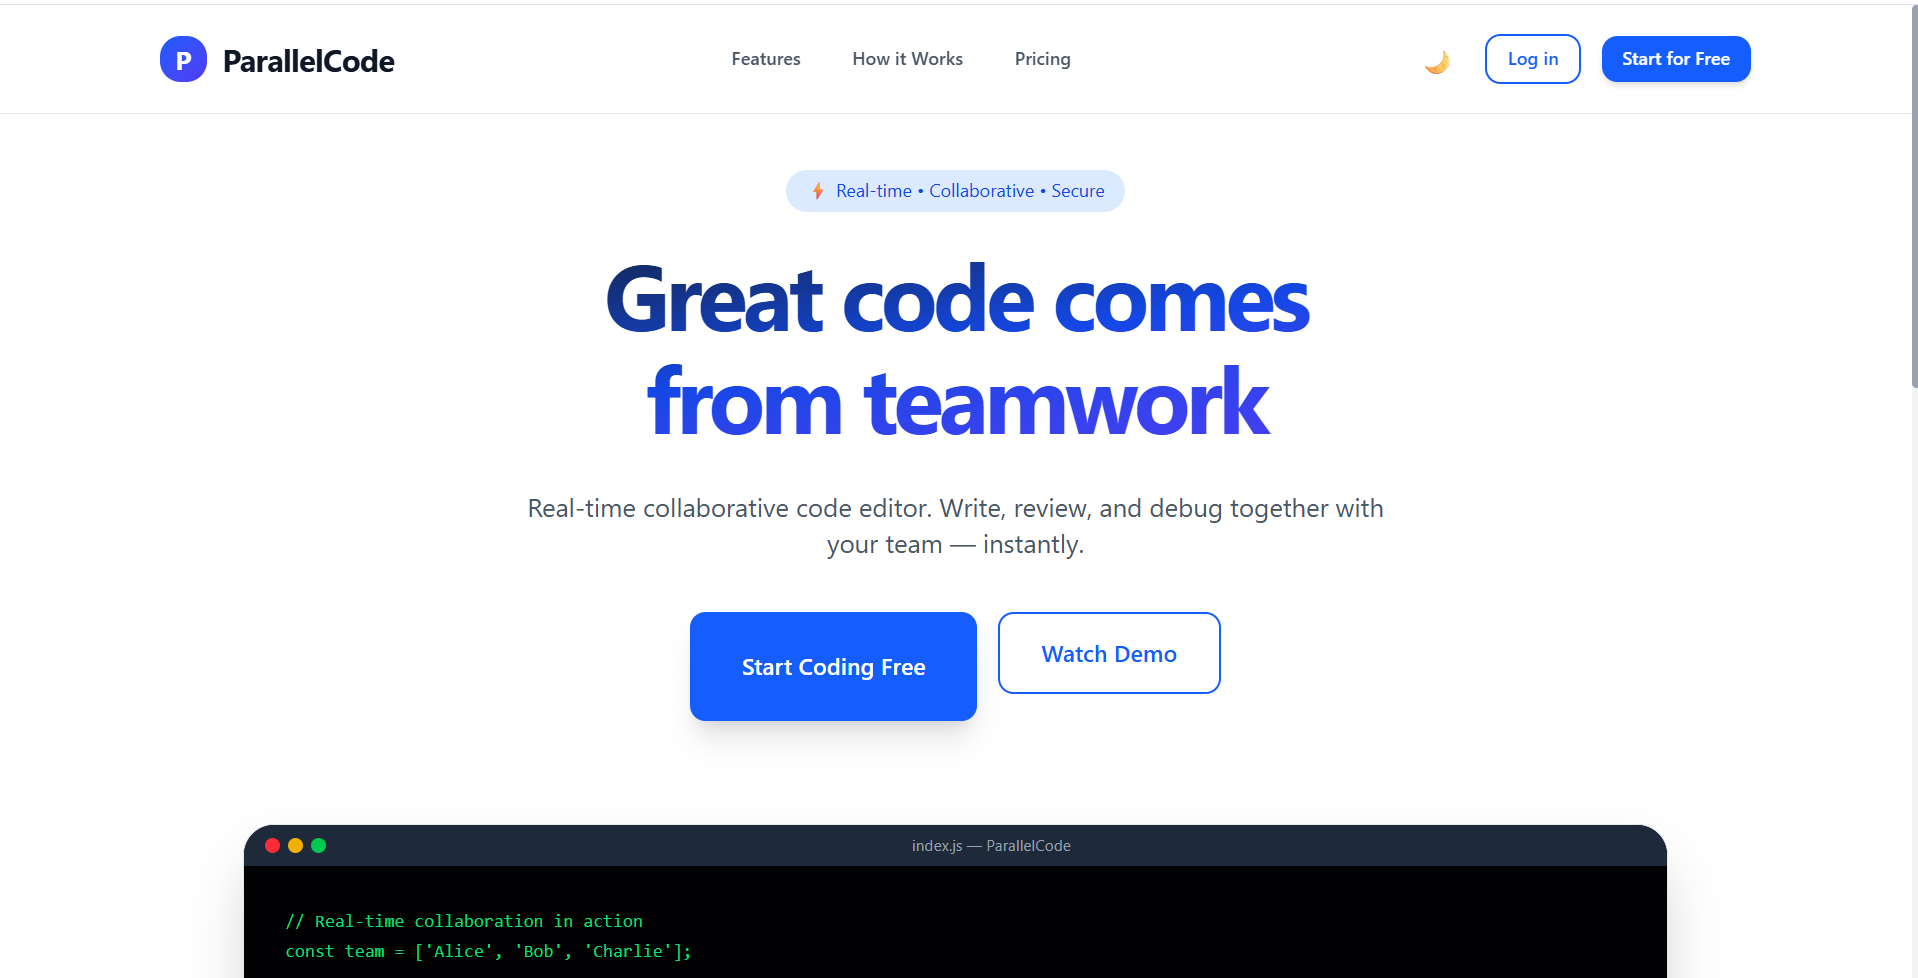
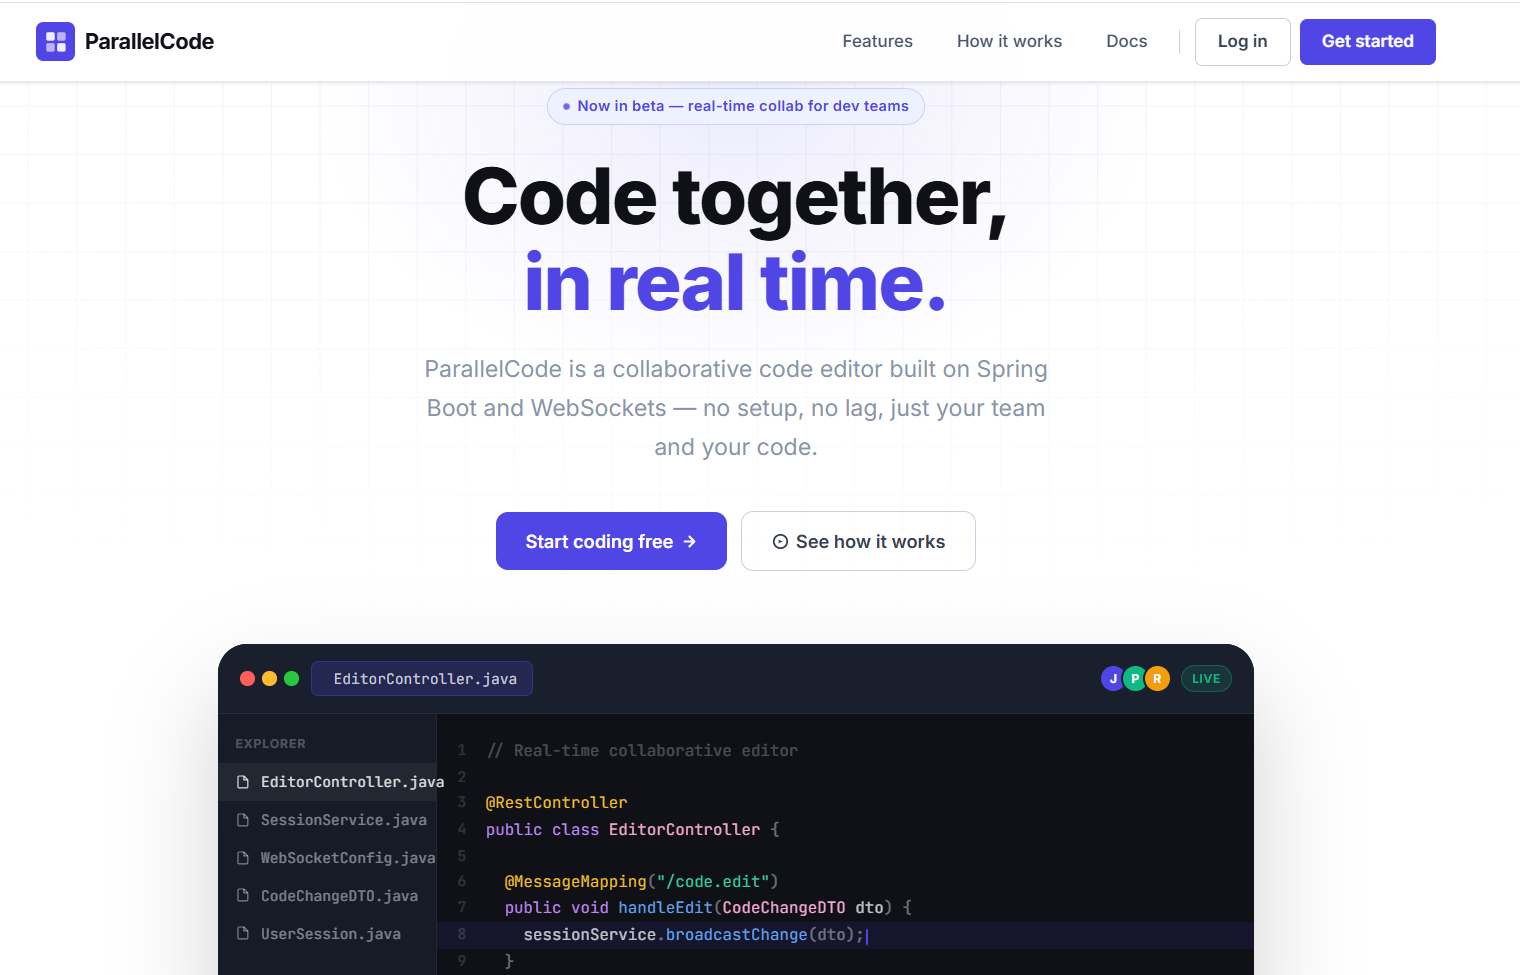
added youtube links

diff --git a/src/index.css b/src/index.css
@@ -526,6 +526,13 @@ html, body, #root {
         color: #334155;
     }
 
+    .project-buttons {
+        display: flex;
+        gap: 0.8rem;
+        flex-wrap: wrap;
+        margin-top: auto;
+    }
+
     .project-github-btn {
         display: inline-flex;
         align-items: center;
@@ -550,8 +557,32 @@ html, body, #root {
         transform: translateY(-2px);
     }
 
-    .github-icon {
+    .github-icon, .youtube-icon {
         font-size: 1.2rem;
+    }
+
+    .project-youtube-btn {
+        display: inline-flex;
+        align-items: center;
+        justify-content: center;
+        gap: 0.6rem;
+        padding: 0.6rem 1.4rem;
+        background: #dc143c;
+        color: #fff;
+        font-family: var(--font-montserrat);
+        font-size: 0.85rem;
+        font-weight: 600;
+        border: none;
+        border-radius: 6px;
+        cursor: pointer;
+        text-decoration: none;
+        transition: background 0.2s ease, transform 0.15s ease;
+        width: fit-content;
+    }
+
+    .project-youtube-btn:hover {
+        background: #cc0000;
+        transform: translateY(-2px);
     }
 
     /* ── Experience ── */

diff --git a/src/sections/Projects.jsx b/src/sections/Projects.jsx
@@ -1,5 +1,5 @@
 import {projects} from "../constants/index.js";
-import {FaGithub} from "react-icons/fa";
+import {FaGithub, FaYoutube} from "react-icons/fa";
 const ProjectCard = ({ project }) => {
     return (
         <div className="project-card">
@@ -20,15 +20,28 @@ const ProjectCard = ({ project }) => {
                         </span>
                     ))}
                 </div>
-                <a
-                    href={project.githubLink}
-                    target="_blank"
-                    rel="noopener noreferrer"
-                    className="project-github-btn"
-                >
-                    <FaGithub className="github-icon" />
-                    <span>View Code</span>
-                </a>
+                <div className="project-buttons">
+                    <a
+                        href={project.githubLink}
+                        target="_blank"
+                        rel="noopener noreferrer"
+                        className="project-github-btn"
+                    >
+                        <FaGithub className="github-icon" />
+                        <span>View Code</span>
+                    </a>
+                    {project.youtubeLink && (
+                        <a
+                            href={project.youtubeLink}
+                            target="_blank"
+                            rel="noopener noreferrer"
+                            className="project-youtube-btn"
+                        >
+                            <FaYoutube className="youtube-icon" />
+                            <span>Demo</span>
+                        </a>
+                    )}
+                </div>
             </div>
         </div>
     );

diff --git a/src/constants/index.js b/src/constants/index.js
@@ -17,6 +17,7 @@ export const projects = [
         description: 'Real-time collaborative code editor with instant synchronization using WebSockets, Redis, and Spring Boot. Features Monaco Editor, JWT auth, and multi-user editing.',
         stack: ['React', 'Tailwind CSS', 'Spring Boot', 'WebSocket', 'PostgreSQL', 'Redis', 'JWT', 'Docker'],
         githubLink: 'https://github.com/JayitaSd/ParallelCode',
+        youtubeLink: 'https://youtu.be/LInGE3rU21M'
     },
     {
         id: 2,
@@ -25,6 +26,7 @@ export const projects = [
         description: 'Retrieval-Augmented Generation (RAG) application using Spring AI, Spring Boot and Google Gemini. Answers questions grounded in your documents with HyDE and vector search.',
         stack: ['Spring Boot', 'Spring AI', 'Gemini'],
         githubLink: 'https://github.com/JayitaSd/SRAI',
+        youtubeLink: 'htps://youtu.be/KBL7ZKNNbBUt'
     },
     {
         id: 3,
@@ -40,7 +42,7 @@ export const projects = [
         image: voice,
         description: 'Real-time voice assistant powered by ElevenLabs Conversational AI. Features speech recognition, LLM responses, and natural text-to-speech synthesis.',
         stack: ['Python', 'AI', 'Eleven Labs'],
-        githubLink: 'https://github.com/JayitaSd/Voice_Assistant',
+        githubLink: 'https://github.com/JayitaSd/Voice_Assistant'
     },
     {
         id: 5,
@@ -49,6 +51,7 @@ export const projects = [
         description: 'AI-powered fact-checking and truth verification tool. Supports single verification, bulk verification and image ocr. Helps users validate information and combat misinformation.',
         stack: ['Python', 'AI', 'Ocr', 'HTML','CSS','JavaScript'],
         githubLink: 'https://github.com/JayitaSd/TruthGuard',
+        youtubeLink: 'https://youtu.be/gZa1DGGiJSU'
     },
     {
         id: 6,

diff --git a/src/components/Nav.jsx b/src/components/Nav.jsx
@@ -28,7 +28,7 @@ const Nav = () => {
 
                 <div className="flex items-center gap-4">
                     <a
-                        href="https://drive.google.com/file/d/1pwfOGe3m8ooTVPkH-FqL3dp-QgyKqBDm/view?usp=drive_link"
+                        href="https://drive.google.com/file/d/1e9NLq96v5T_pAihPll1-wTQhwUWPowbg/view?usp=drive_link"
                         target="_blank"
                         rel="noopener noreferrer"
                         className="resume-btn"

diff --git a/src/sections/Connect.jsx b/src/sections/Connect.jsx
@@ -51,7 +51,7 @@ const Connect = () => {
                         <span>LeetCode</span>
                     </a>
                     <a
-                        href="https://drive.google.com/file/d/1pwfOGe3m8ooTVPkH-FqL3dp-QgyKqBDm/view?usp=drive_link"
+                        href="https://drive.google.com/file/d/1e9NLq96v5T_pAihPll1-wTQhwUWPowbg/view?usp=drive_link"
                        target="_blank"
                        rel="noopener noreferrer"
                        className="connect-btn resume"